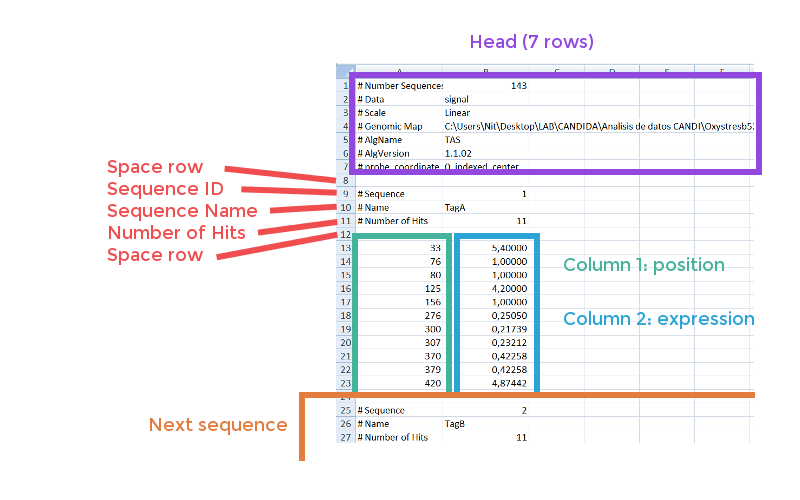
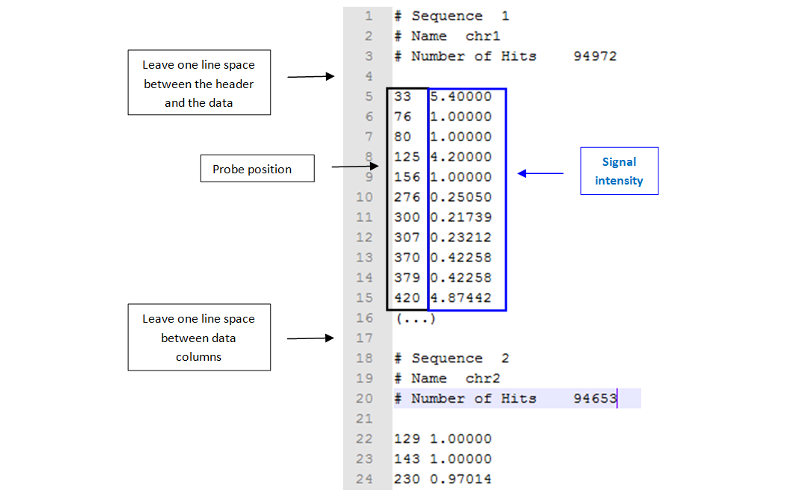
Update tutorial

diff --git a/tutorial.php b/tutorial.php
@@ -148,30 +148,18 @@
 					<br><br>
 					
 					<b class="tutorial-sec">Experimental files</b><br>
-					The experimental files (Forward and reverse) are tabulated files which are organized as follows:<br><br>
+					To upload you data files, create a tabulated text file (.txt) containing the following information::<br><br>
 					<div align="center"><img src="img/tutorial/12.png" border="0"></div><br>
 					
 					<ul>
-						<li><b>Head</b>: the head must have 7 rows (or lines). TilingScan skips the content of these lines.</li>
-						<li><b>Sequence</b>: you need this structure for every sequence that you have:
-						<ul>
-							<li><b>Sequence head</b>: the sequence head block consists in:
-							<ul>
-								<li><b>Space row</b>: a blank row.</li>
-								<li><b>Sequence ID</b>: the ID of this sequence.</li>
-								<li><b>Name</b>: name of the sequence.</li>
-								<li><b>Number of hits</b>: number of probes for this sequence.</li>
-								<li><b>Another space row</b>.</li>
-							</ul>
-							<li><b>Sequence content:</b> the sequence content block consists in two columns:
-							<ul>
-								<li><b>Column 1</b>: position in nucleotides.</li>
-								<li><b>Column 2</b>: expression of these positions.</li>
-							</ul>
-							Note that the number of rows for the two columns must be the <b>Number of hits</b> that you have set in the <b>Sequence head</b>.</li>
-						</ul></li> 
+						<li>Line 1: <b>"# Sequence [tabulation] sequence number (optional)"</b>. You just have to write the word sequence for the program to start reading your data. The sequence number is optional.</li>
+						<li>Line 2: <b>"# Name [tabulation] chr number"</b>. This will identify the chromosome the probes contain information for.</li>
+						<li>Line 3: <b>"#Numer of hits [tabulation]  number of hits"</b>. This tells the program how many lines of probes it has to read. In the case of the example, it will read 94972 lines in a row until the next set of probes (Sequence 2).</li>
+						<li>Line 4: Leave blank space</li>
+						<li>Line 5: Probe position, followed by tabulation and signal intensity of the probe, ie <b>"probe [tabulation] signal"</b>.</li>
 					</ul>
-					Note that fields must be <b>tab-separated</b>.
+					
+					<b class="color-red">NOTE</b>: In between sequences, you have to leave a blank space.
 					
 					<br><br>
 					
